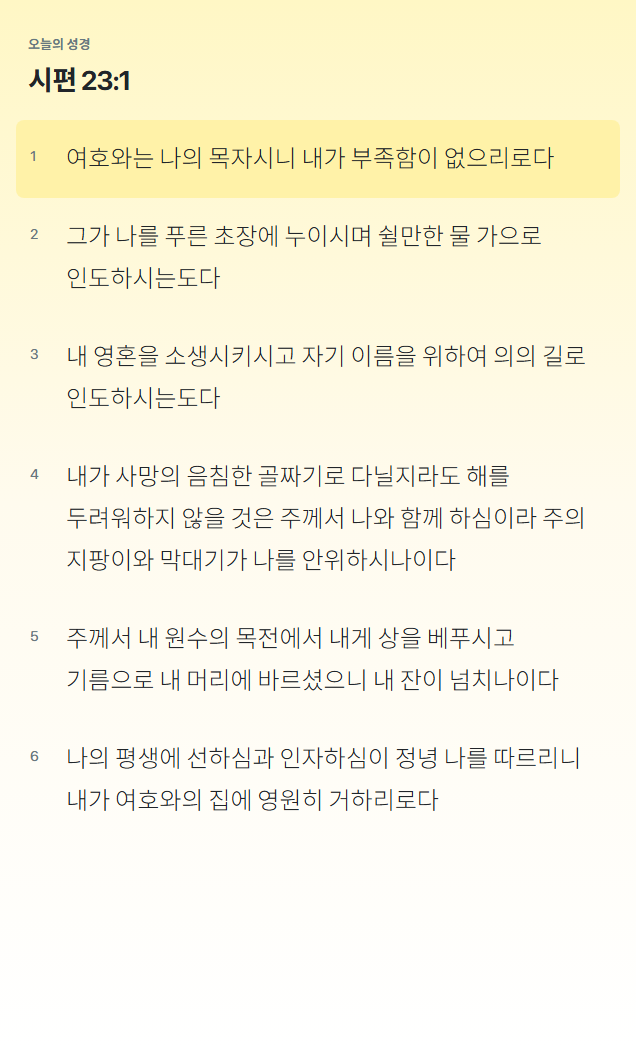
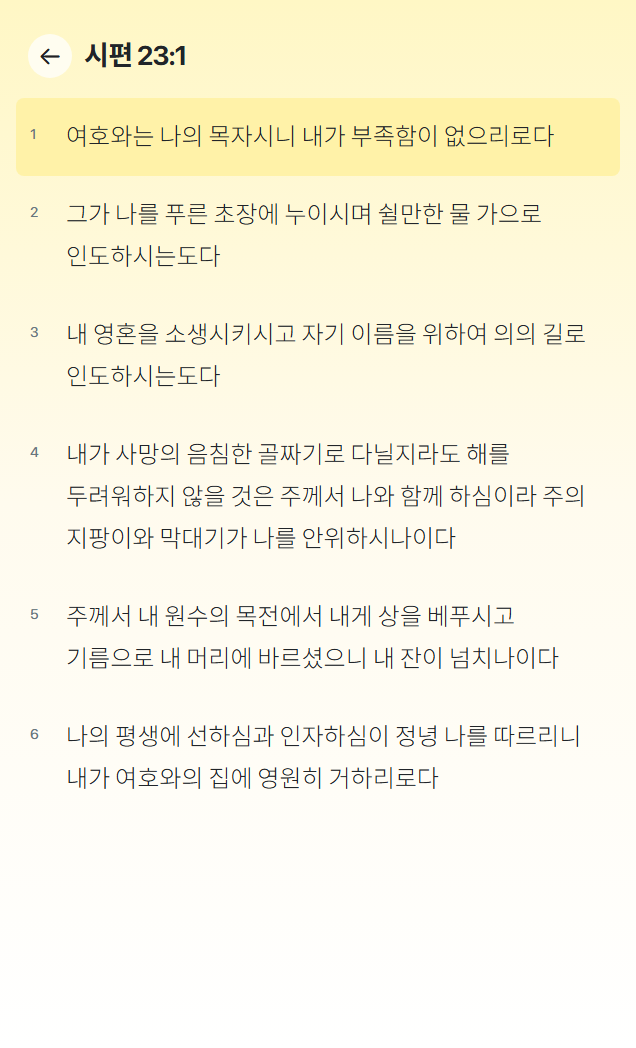
Add chapter back navigation

diff --git a/toss-miniapp/src/App.tsx b/toss-miniapp/src/App.tsx
@@ -85,6 +85,10 @@ export function App() {
     setPrefs(next);
     setNotice(writePreferences(browserStorage(), next) ? success : '기기에 저장하지 못했어요. 변경 내용은 이번 이용 중에만 유지돼요.');
   }
+  function goBack() {
+    if (window.history.state?.bibleDepth > 0) window.history.back();
+    else go('today');
+  }
   function toggle(v: Verse) {
     const exists = prefs.favorites.includes(v.id);
     updatePreferences({ ...prefs, favorites: exists ? prefs.favorites.filter(id => id !== v.id) : [...prefs.favorites, v.id] }, exists ? '즐겨찾기에서 해제했어요.' : '즐겨찾기에 저장했어요.');
@@ -116,7 +120,7 @@ export function App() {
 
   return <div className={`app page-${route.page}`}>
     <main>
-      {route.page !== 'today' && <header className="page-heading">{!['favorites', 'info'].includes(route.page) && <p className="eyebrow">오늘의 성경</p>}<h1 ref={heading} tabIndex={-1}>{title}</h1></header>}
+      {route.page !== 'today' && <header className={`page-heading ${route.page === 'chapter' ? 'chapter-heading' : ''}`}>{route.page === 'chapter' && <button className="back-button" aria-label="이전 화면으로 돌아가기" onClick={goBack}>←</button>}<div>{!['favorites', 'info', 'chapter'].includes(route.page) && <p className="eyebrow">오늘의 성경</p>}<h1 ref={heading} tabIndex={-1}>{title}</h1></div></header>}
       <p className="status" role="status" aria-live="polite">{notice}</p>
       {!bible && !error && <p role="status" className="empty">말씀을 준비하고 있어요…</p>}
       {error && <div className="empty" role="alert"><p>{error}</p><Button onClick={() => { setError(''); setAttempt(a => a + 1); }}>다시 불러오기</Button></div>}

diff --git a/toss-miniapp/src/style.css b/toss-miniapp/src/style.css
@@ -17,6 +17,9 @@ main { min-height: 100dvh; padding: 34px 28px calc(105px + var(--safe-bottom)); 
 .today-layout .font-controls { margin: 26px auto 0; }
 .page-chapter { background: linear-gradient(180deg, #fff7c5 0%, #fffbee 48%, #fff 100%); }
 .page-heading { margin-bottom: 12px; }
+.chapter-heading { display: flex; align-items: center; gap: 12px; }
+.chapter-heading h1 { margin: 0; }
+.back-button { display: grid; place-items: center; flex: 0 0 44px; width: 44px; height: 44px; padding: 0; border: 0; border-radius: 50%; background: rgba(255,255,255,.72); color: #202124; font-size: 27px; line-height: 1; }
 .eyebrow { color: #667780; font-size: 13px; font-weight: 700; margin: 0 0 8px; }
 h1 { font-size: 27px; line-height: 1.35; letter-spacing: -.7px; margin: 0 0 12px; word-break: keep-all; }
 h2 { font-size: 22px; line-height: 1.5; }
